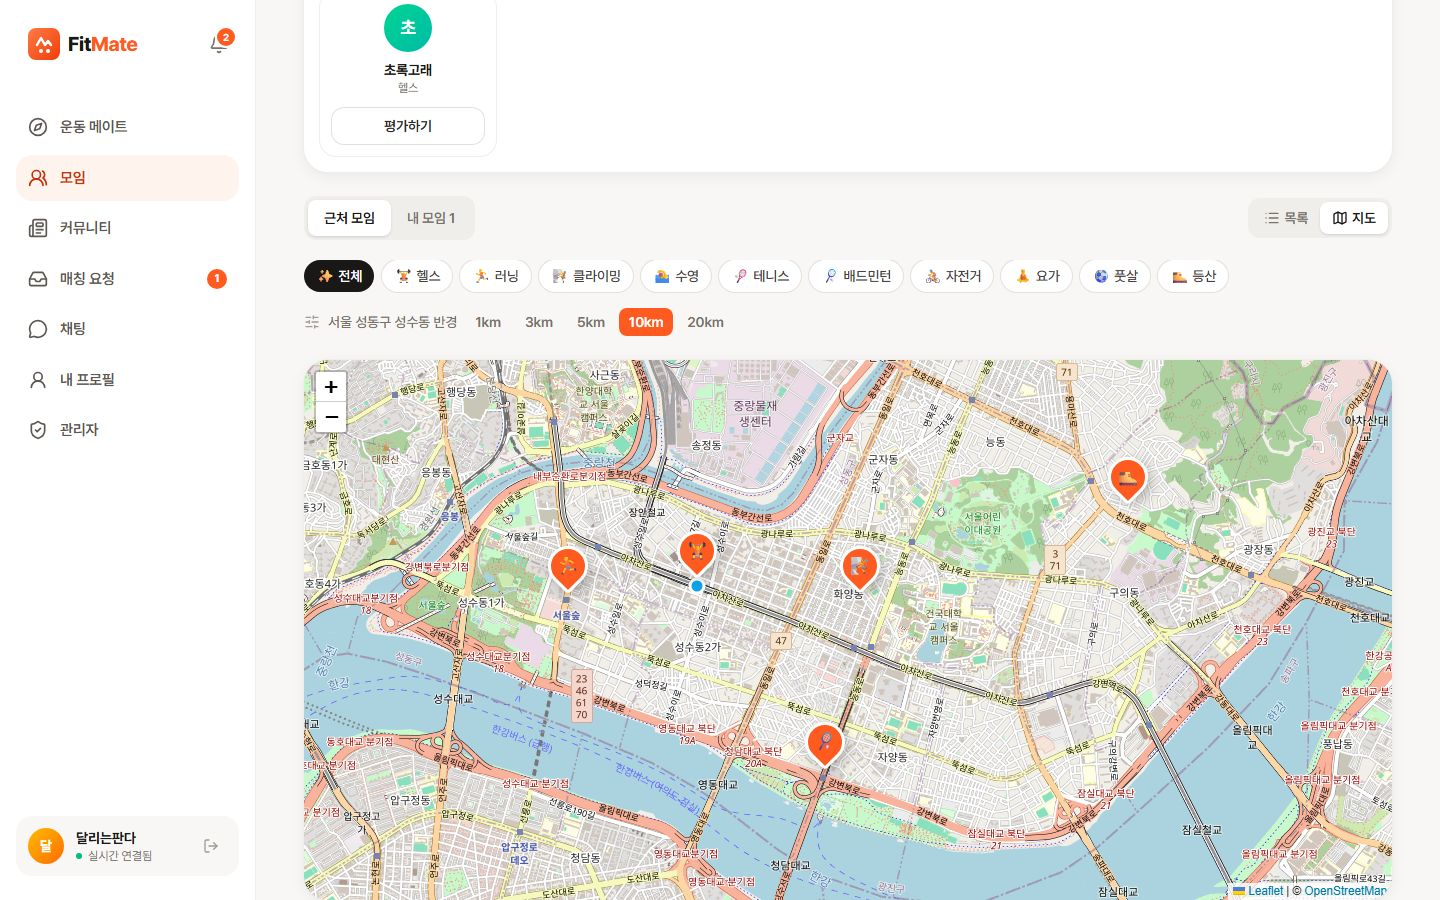
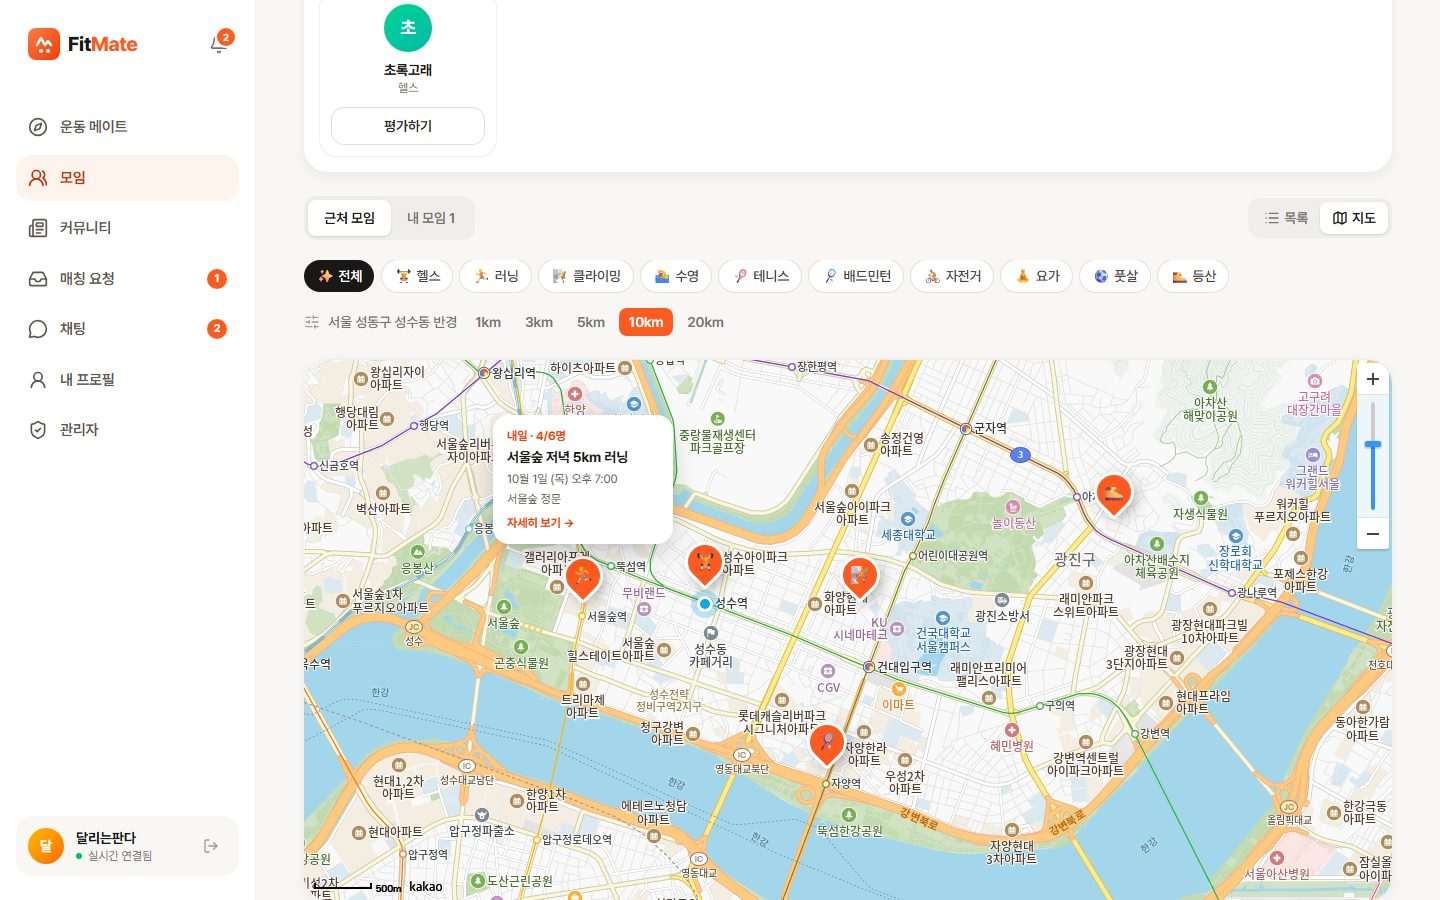
Gathering map: switch from Leaflet/OpenStreetMap to Kakao Maps
The OSM tiles looked dated and keyless modern styles (CARTO now needs a key;
OpenFreeMap mixes romanized labels) read poorly in Korean. The Kakao Maps SDK
is loaded on demand when the map view opens; pins and the summary popup are
custom overlays. Dropping Leaflet shrinks the map chunk from ~150KB to 3KB.
VITE_KAKAO_MAP_KEY is the public JavaScript key (domain-restricted).

Changed region(s): [[0.1875, 0.3733, 0.9688, 1.0], [0.6875, 0.9956, 0.7188, 1.0], [0.125, 0.3422, 0.1562, 0.3733]]

diff --git a/apps/web/src/components/GatheringMap.tsx b/apps/web/src/components/GatheringMap.tsx
@@ -1,9 +1,8 @@
-import L from 'leaflet'
-import 'leaflet/dist/leaflet.css'
-import { useEffect, useRef } from 'react'
+import { useEffect, useRef, useState } from 'react'
 import { useNavigate } from 'react-router'
 import { sportEmoji } from '../lib/format'
 import { dDay, gatheringTime } from '../lib/gathering'
+import { kakaoMapAvailable, loadKakaoMap } from '../lib/kakaoMap'
 import type { GatheringSummary } from '../lib/types'
 
 function escapeHtml(text: string) {
@@ -11,8 +10,8 @@ function escapeHtml(text: string) {
 }
 
 /**
- * 근처 모임을 지도에 표시한다 (OpenStreetMap 타일, 별도 API 키 불필요).
- * 내 활동 지역을 가운데에 두고, 마커를 누르면 모임 요약이 뜨고 한 번 더 누르면 상세로 간다.
+ * 근처 모임을 카카오맵에 표시한다.
+ * 내 활동 지역을 가운데에 두고, 마커를 누르면 모임 요약이 뜨고 요약을 누르면 상세로 간다.
  */
 export function GatheringMap({ gatherings, center }: {
   gatherings: GatheringSummary[]
@@ -20,25 +19,31 @@ export function GatheringMap({ gatherings, center }: {
 }) {
   const navigate = useNavigate()
   const containerRef = useRef<HTMLDivElement>(null)
-  const mapRef = useRef<L.Map | null>(null)
-  const layerRef = useRef<L.LayerGroup | null>(null)
+  const mapRef = useRef<kakao.maps.Map | null>(null)
+  const [ready, setReady] = useState(false)
+  const [failed, setFailed] = useState(!kakaoMapAvailable)
 
   // 지도는 한 번만 만든다
   useEffect(() => {
-    if (!containerRef.current) return
-    const map = L.map(containerRef.current, { zoomControl: true, attributionControl: true })
-      .setView([center.latitude, center.longitude], 14)
-    L.tileLayer('https://{s}.tile.openstreetmap.org/{z}/{x}/{y}.png', {
-      maxZoom: 19,
-      attribution: '&copy; <a href="https://www.openstreetmap.org/copyright">OpenStreetMap</a>',
-    }).addTo(map)
-    L.circleMarker([center.latitude, center.longitude], {
-      radius: 7, color: '#fff', weight: 3, fillColor: '#0ea5e9', fillOpacity: 1,
-    }).bindTooltip('내 활동 지역').addTo(map)
-    layerRef.current = L.layerGroup().addTo(map)
-    mapRef.current = map
+    let cancelled = false
+    loadKakaoMap()
+      .then(({ maps }) => {
+        if (cancelled || !containerRef.current) return
+        const position = new maps.LatLng(center.latitude, center.longitude)
+        const map = new maps.Map(containerRef.current, { center: position, level: 5 })
+        map.addControl(new maps.ZoomControl(), maps.ControlPosition.RIGHT)
+        const me = document.createElement('div')
+        me.className = 'map-me'
+        me.title = '내 활동 지역'
+        new maps.CustomOverlay({ position, content: me, yAnchor: 0.5 }).setMap(map)
+        mapRef.current = map
+        setReady(true)
+      })
+      .catch(() => {
+        if (!cancelled) setFailed(true)
+      })
     return () => {
-      map.remove()
+      cancelled = true
       mapRef.current = null
     }
   }, [center.latitude, center.longitude])
@@ -46,43 +51,65 @@ export function GatheringMap({ gatherings, center }: {
   // 모임 목록이 바뀌면 마커를 다시 그린다
   useEffect(() => {
     const map = mapRef.current
-    const layer = layerRef.current
-    if (!map || !layer) return
-    layer.clearLayers()
-    const bounds = L.latLngBounds([[center.latitude, center.longitude]])
+    if (!ready || !map) return
+    const { maps } = window.kakao
+    const overlays: kakao.maps.CustomOverlay[] = []
+    let openPopup: kakao.maps.CustomOverlay | null = null
+    const closePopup = () => {
+      openPopup?.setMap(null)
+      openPopup = null
+    }
+
+    const bounds = new maps.LatLngBounds()
+    bounds.extend(new maps.LatLng(center.latitude, center.longitude))
     for (const gathering of gatherings) {
+      const position = new maps.LatLng(gathering.latitude, gathering.longitude)
       const full = gathering.currentCount >= gathering.capacity
-      const icon = L.divIcon({
-        className: '',
-        html: `<div class="gathering-pin${full ? ' gathering-pin--full' : ''}"><span>${sportEmoji(gathering.sportCode)}</span></div>`,
-        iconSize: [40, 40],
-        iconAnchor: [20, 40],
-        popupAnchor: [0, -38],
-      })
-      const popup = document.createElement('button')
-      popup.type = 'button'
-      popup.className = 'gathering-popup'
-      popup.innerHTML = `
+
+      const popupContent = document.createElement('button')
+      popupContent.type = 'button'
+      popupContent.className = 'gathering-popup'
+      popupContent.innerHTML = `
         <span class="gathering-popup__meta">${escapeHtml(dDay(gathering.startsAt))} · ${gathering.currentCount}/${gathering.capacity}명</span>
         <strong>${escapeHtml(gathering.title)}</strong>
         <span>${escapeHtml(gatheringTime(gathering.startsAt))}</span>
         <span>${escapeHtml(gathering.placeName)}</span>
         <span class="gathering-popup__link">자세히 보기 →</span>`
-      popup.addEventListener('click', () => navigate(`/gatherings/${gathering.id}`))
-      L.marker([gathering.latitude, gathering.longitude], { icon, title: gathering.title })
-        .bindPopup(popup, { closeButton: false })
-        .addTo(layer)
-      bounds.extend([gathering.latitude, gathering.longitude])
+      popupContent.addEventListener('click', () => navigate(`/gatherings/${gathering.id}`))
+      const popup = new maps.CustomOverlay({ position, content: popupContent, yAnchor: 1, zIndex: 10, clickable: true })
+
+      const pin = document.createElement('button')
+      pin.type = 'button'
+      pin.className = `gathering-pin${full ? ' gathering-pin--full' : ''}`
+      pin.title = gathering.title
+      pin.setAttribute('aria-label', gathering.title)
+      pin.innerHTML = `<span>${sportEmoji(gathering.sportCode)}</span>`
+      pin.addEventListener('click', () => {
+        const wasOpen = openPopup === popup
+        closePopup()
+        if (!wasOpen) {
+          popup.setMap(map)
+          openPopup = popup
+        }
+      })
+      const marker = new maps.CustomOverlay({ position, content: pin, yAnchor: 1, clickable: true })
+      marker.setMap(map)
+      overlays.push(marker, popup)
+      bounds.extend(position)
     }
-    if (gatherings.length > 0) map.fitBounds(bounds, { padding: [48, 48], maxZoom: 15 })
-  }, [gatherings, center.latitude, center.longitude, navigate])
+    maps.event.addListener(map, 'click', closePopup)
+    if (gatherings.length > 0) map.setBounds(bounds, 64, 48, 32, 48)
+    return () => overlays.forEach((overlay) => overlay.setMap(null))
+  }, [ready, gatherings, center.latitude, center.longitude, navigate])
 
   return (
-    <div
-      ref={containerRef}
-      className="relative z-0 h-[60dvh] min-h-80 overflow-hidden rounded-3xl shadow-card ring-1 ring-ink-100"
-      role="region"
-      aria-label="근처 모임 지도"
-    />
+    <div className="relative h-[60dvh] min-h-80 overflow-hidden rounded-3xl bg-ink-50 shadow-card ring-1 ring-ink-100">
+      <div ref={containerRef} className="absolute inset-0" role="region" aria-label="근처 모임 지도" />
+      {failed && (
+        <p className="absolute inset-0 flex items-center justify-center p-6 text-center text-sm text-ink-500">
+          지도를 불러오지 못했어요. 목록 보기로 모임을 확인해 주세요.
+        </p>
+      )}
+    </div>
   )
 }

diff --git a/apps/web/src/lib/kakaoMap.ts b/apps/web/src/lib/kakaoMap.ts
@@ -1,0 +1,59 @@
+/**
+ * 카카오맵 JavaScript SDK를 필요할 때 한 번만 불러온다 (지도 보기를 누를 때).
+ * 키는 브라우저에 공개되는 JavaScript 키이고, 카카오 개발자 콘솔에 등록한 도메인에서만 동작한다.
+ */
+const KEY = import.meta.env.VITE_KAKAO_MAP_KEY as string | undefined
+
+export const kakaoMapAvailable = Boolean(KEY)
+
+let loading: Promise<typeof kakao> | null = null
+
+export function loadKakaoMap(): Promise<typeof kakao> {
+  if (!KEY) return Promise.reject(new Error('VITE_KAKAO_MAP_KEY가 없어요'))
+  loading ??= new Promise((resolve, reject) => {
+    const script = document.createElement('script')
+    script.src = `https://dapi.kakao.com/v2/maps/sdk.js?appkey=${encodeURIComponent(KEY)}&autoload=false`
+    script.async = true
+    script.onload = () => window.kakao.maps.load(() => resolve(window.kakao))
+    script.onerror = () => {
+      loading = null // 네트워크 문제였으면 다음에 다시 시도할 수 있게
+      script.remove()
+      reject(new Error('카카오맵을 불러오지 못했어요'))
+    }
+    document.head.appendChild(script)
+  })
+  return loading
+}
+
+/* 이 프로젝트에서 쓰는 카카오맵 API만 최소한으로 타입을 적어 둔다 */
+declare global {
+  interface Window {
+    kakao: typeof kakao
+  }
+  namespace kakao.maps {
+    function load(callback: () => void): void
+    class LatLng {
+      constructor(latitude: number, longitude: number)
+    }
+    class LatLngBounds {
+      extend(latlng: LatLng): void
+    }
+    class Map {
+      constructor(container: HTMLElement, options: { center: LatLng; level: number })
+      setBounds(bounds: LatLngBounds, paddingTop?: number, paddingRight?: number, paddingBottom?: number, paddingLeft?: number): void
+      addControl(control: ZoomControl, position: ControlPosition): void
+      relayout(): void
+    }
+    class ZoomControl {}
+    enum ControlPosition {
+      RIGHT,
+    }
+    class CustomOverlay {
+      constructor(options: { position: LatLng; content: HTMLElement; yAnchor?: number; zIndex?: number; clickable?: boolean })
+      setMap(map: Map | null): void
+    }
+    namespace event {
+      function addListener(target: Map, type: 'click', handler: () => void): void
+    }
+  }
+}

diff --git a/apps/web/src/index.css b/apps/web/src/index.css
@@ -67,9 +67,11 @@
   padding-bottom: max(0.75rem, env(safe-area-inset-bottom));
 }
 
-/* 모임 지도 마커와 말풍선 (Leaflet이 직접 그리는 요소라 일반 CSS로 꾸민다) */
+/* 모임 지도 마커와 말풍선 (카카오맵 위에 직접 그리는 요소라 일반 CSS로 꾸민다) */
 .gathering-pin {
   display: flex;
+  cursor: pointer;
+  margin-bottom: 8px; /* 핀 끝이 위치를 가리키도록 */
   width: 40px;
   height: 40px;
   align-items: center;
@@ -91,6 +93,12 @@
 .gathering-popup {
   display: flex;
   min-width: 180px;
+  max-width: 240px;
+  margin-bottom: 60px; /* 핀 위에 띄운다 */
+  padding: 12px 14px;
+  border-radius: 16px;
+  background: #fff;
+  box-shadow: 0 10px 30px -8px rgb(26 24 22 / 0.35);
   flex-direction: column;
   gap: 2px;
   cursor: pointer;
@@ -112,6 +120,11 @@
   color: var(--color-brand-600);
   font-weight: 700;
 }
-.leaflet-popup-content-wrapper {
-  border-radius: 16px;
+.map-me {
+  width: 16px;
+  height: 16px;
+  border: 3px solid #fff;
+  border-radius: 50%;
+  background: #0ea5e9;
+  box-shadow: 0 0 0 6px rgb(14 165 233 / 0.25);
 }

diff --git a/README.md b/README.md
@@ -15,7 +15,7 @@
 
 - **운동 메이트 추천**: 반경 안의 사람을 거리·실력·운동 시간·매너로 점수화(100점)해서 잘 맞는 순서로 보여 줌
 - **매칭 요청 → 1:1 채팅**: 요청을 수락하면 바로 채팅방이 생기고, 실시간 메시지·읽음 표시·사진·이모티콘·접속 상태 지원
-- **운동 모임**: 지도에서 근처 모임을 찾고 선착순으로 참여, 모임마다 단체 채팅방, 시작 1시간 전 리마인더
+- **운동 모임**: 카카오맵에서 근처 모임을 찾고 선착순으로 참여, 모임마다 단체 채팅방, 시작 1시간 전 리마인더
 - **동네 커뮤니티**: 내 반경 안의 글만 모아 보는 피드, 사진 4장, 좋아요, 댓글·답글
 - **매너 온도**: 함께 운동한 상대를 평가하고 칭찬 태그를 모음. 노쇼는 점수에 반영
 - **실시간 알림**: 매칭·모임·댓글·칭찬 알림을 토스트로 받고, 종류별로 끌 수 있음
@@ -55,7 +55,7 @@ flowchart LR
 |---|---|
 | Backend | Java 17, Spring Boot 4, Spring Data JPA, Spring Security (OAuth2 Resource Server, JWT), WebSocket(STOMP), Flyway |
 | DB · Cache | PostgreSQL + PostGIS, Redis |
-| Web | React 19, TypeScript, Vite, Tailwind CSS v4, TanStack Query, React Router, STOMP.js, Leaflet |
+| Web | React 19, TypeScript, Vite, Tailwind CSS v4, TanStack Query, React Router, STOMP.js, 카카오맵 JavaScript SDK |
 | Test | JUnit 5, Testcontainers(PostGIS · Redis · S3Mock), Playwright, k6 |
 | Infra | Docker, GitHub Actions, Vercel, Render, Supabase, Upstash |
 
